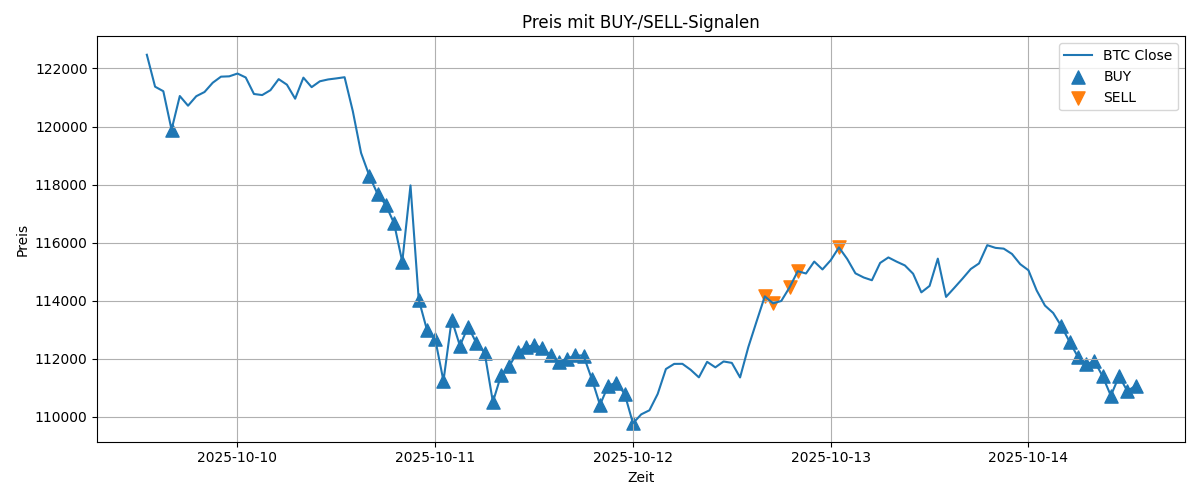
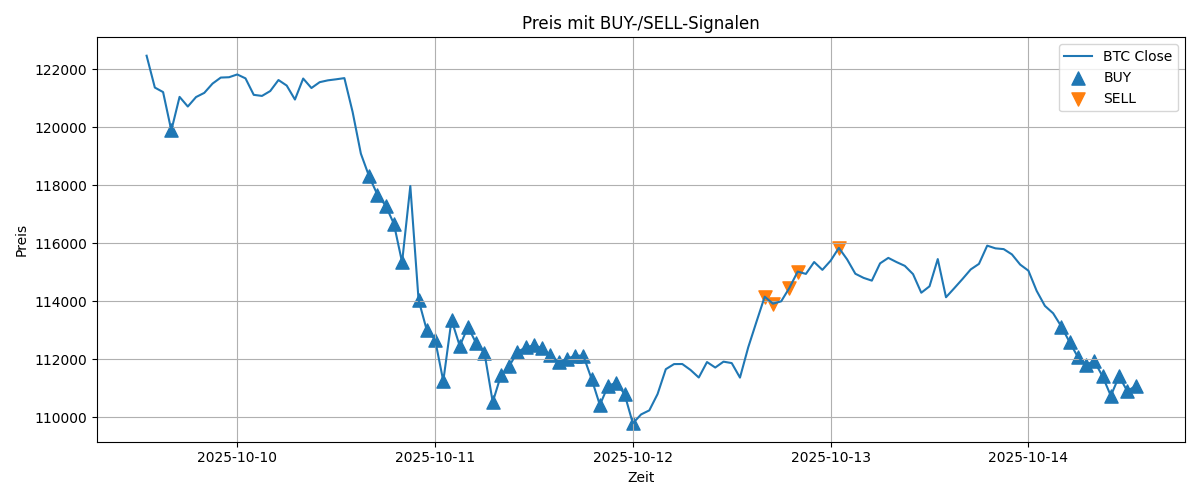
Readme finalisiert

diff --git a/experiments/exp_1_1/scripts/09_model_deployment/backtesting.py b/experiments/exp_1_1/scripts/09_model_deployment/backtesting.py
@@ -328,7 +328,7 @@ def buy_sell_activity_by_hours(action_log, hours=12, count_buy_add_as_buy=True):
     return df_bins, summary
 
 
-X_HOURS = 20  #  6, 12, 24, 48, ...
+X_HOURS = 10  #  6, 12, 24, 48, ...
 
 df_bins, summary = trades_stats_by_hours(action_log, trade_log, hours=X_HOURS)
 

diff --git a/experiments/exp_1_1/Exp_1_1.md b/experiments/exp_1_1/Exp_1_1.md
@@ -748,6 +748,7 @@ Während der Markt stark schwankt, wächst das Kapital kontrollierter.
 
 Data acquisition:
 - Nutzung der yfinance API
+- Daten werden einmal pro Stunde geladen
 - Verwendung der letzten 120 Stunden, um ausreichend Daten zu haben, um Features wie RSI und EMA zu berechnen
 
 Feature Berechnung, Skalierung, Drop selected features:
@@ -770,11 +771,12 @@ Das Setzen eines Orders folgt der gleichen Logik wie der Backtesting Algorithmus
 ![equity trading](images/09_equity_trading.png)
 
 - Betrachteter Zeitraum: 15.12.2025 10 Uhr bis 20 Uhr
+- Betrachtetes Zeitfenster 10 Stunden
 - zeigt insgesamt einen sinkenden Trend
 - Start Portfolio: $100,710.87
 - End Portfolio: $96,876.92 
 - Veränderung: $-3,833.95 (-3.81%)
-- getätigte Trades: 11
+- getätigte Trades: 10
 - jede Stunde wurde ein Order gesetzt
 - es gab ausschließlich Buy Signale 
 
@@ -791,12 +793,57 @@ Das Setzen eines Orders folgt der gleichen Logik wie der Backtesting Algorithmus
 
 ![Stündliche Änderungen](images/09_changes_per_hour.png)
 
-- Stündlicher Verlust ist zu verzeichnen 
+- Stündlicher Verlust ist zu verzeichnen
+- Abwärtstrend deutlich zu erkennen
 
 ### Paper trading vs Backtesting
 
+Da beim Paper Trading ein Zeitraum von 10 Fenstern betrachtet wird, werden in der folgenden Tabelle die durchschnittlichen Werte innerhalb eines 10 Stunden Fensters verwendet.
+
+| Merkmal              | Paper Trading | Backtesting                     |
+|----------------------|---------------|---------------------------------|
+| Actions count        | 10            | 0.65                            |
+| Verteilung Buy/Sell  | 100% Buy      | Buy-Signale überwiegen deutlich |
+| Equity               | $96,876.92    | $104,665.14                     |
+| Absolute Veränderung | $-3,833.95    | $+24.89                         |
+| Return               | +0.0248%      | -3.81%                          |
 
 
+Der Vergleich zeigt, dass beim Paper Trading deutlich mehr Trading-Actions ausgeführt wurden als beim Backtesting. Dies lässt sich auf folgende Faktoren zurückführen:
+
+Beim Backtesting kam es häufiger zu keinen Orders, weil:
+- Das Modell öfter das Neutral-Signal ausgegeben hat
+- Die vorhergesagten Wahrscheinlichkeiten für UP- und DOWN-Trends zu ähnlich waren (Differenz < 5%), wodurch keine eindeutige Handelsentscheidung getroffen werden konnte
+
+Beim Paper Trading hingegen:
+- Lieferte das Modell Wahrscheinlichkeiten mit größeren Unterschieden zwischen den Trend-Klassen
+- War das Modell bei seinen Vorhersagen konfidenter und überschritt häufiger die Mindest-Differenz von 5%
+- Führte dies zu mehr ausgeführten Trades
+
+Das Modell zeigte beim Paper Trading eine höhere Vorhersagesicherheit (Confidence) als beim Backtesting, was sich in eindeutigeren Handelssignalen und einer höheren Anzahl an ausgeführten Orders niederschlug.
+
+Insgesamt kann man sagen, dass das Modell und die dazugehörige Trading-Strategie im Backtesting besser funktioniert. 
+Allerding muss man beachten, dass beim Paper Trading nur ein einziges 10-Stunden Fenster betrachtet wurde und dies nicht repräsentativ ist, da es zufällig ein Tag sein kann, in dem, Bitcoin eher fällt.
+Für einen aussagekräftigen Vergleich muss man Paper Trading über einen längeren Zeitraum betrachten.
+
+## Fazit und Next Steps
+
+Das Modell-Training und Testing hat gezeigt:
+- Modell sagt den Bitcoin-Trend nur minimal besser vor als eine zufällige Vorhersage 
+- Deutlich mehr Buy-Signale als Sell-Signale 
+- Trading-Strategie führt über einen längeren Zeitraum dazu, dass die Buying Power sehr strak sinkt, weil zu viele Buy-Signale gegeben werden
+
+Schritte zur Verbesserung des Modells:
+- Verwendung von Minuten-Daten statt Stunden-Daten für das Training -> kurzfristige Trends besser erkennbar
+- Überprüfung, ob eine zu große Ungleichverteilung an UP und DOWN Vorhersagen besteht
+
+Target-Berechnung anpassen: 
+- Überprüfung, ob ein Neutral-Trend notwendig ist oder er die Vorhersage erschwert
+- Überprüfen, ab welchem Return-Wert der Trend als Neutral eingestuft werden kann
+
+Trading-Strategie anpassen:
+- Buy-Signal sollte nicht so oft hintereinander ausgeführt werden
+- Überprüfen, wie groß eine vorhergesagte Wahrscheinlichkeit sein muss, damit ein Buy/Sell Signal gesendet wird
 
 
 
